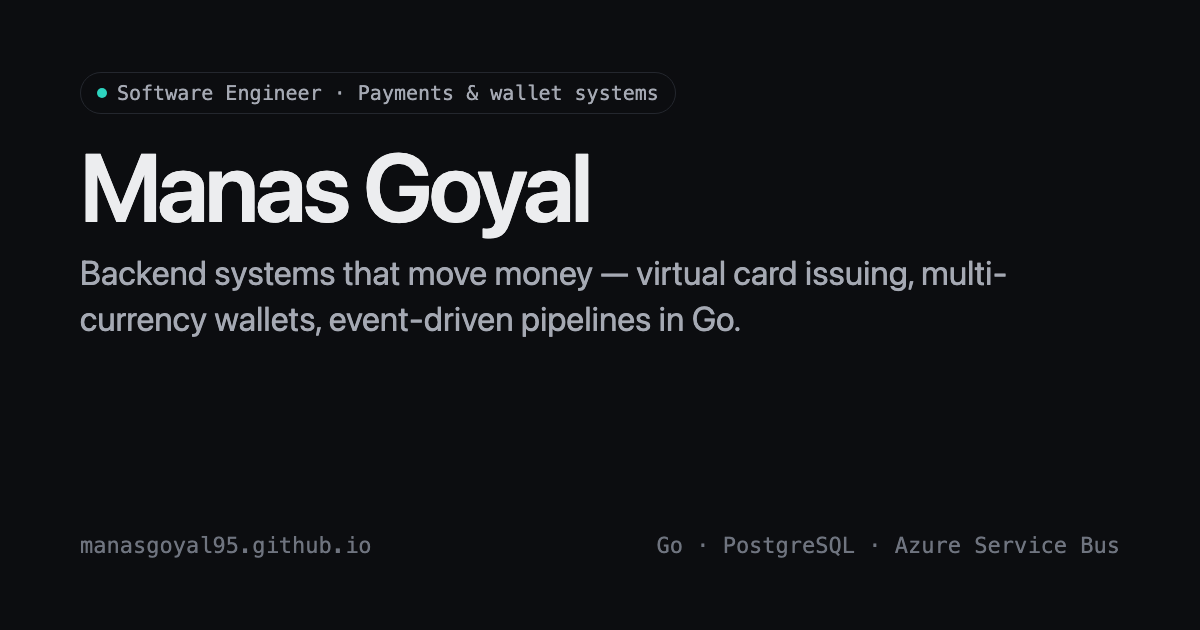
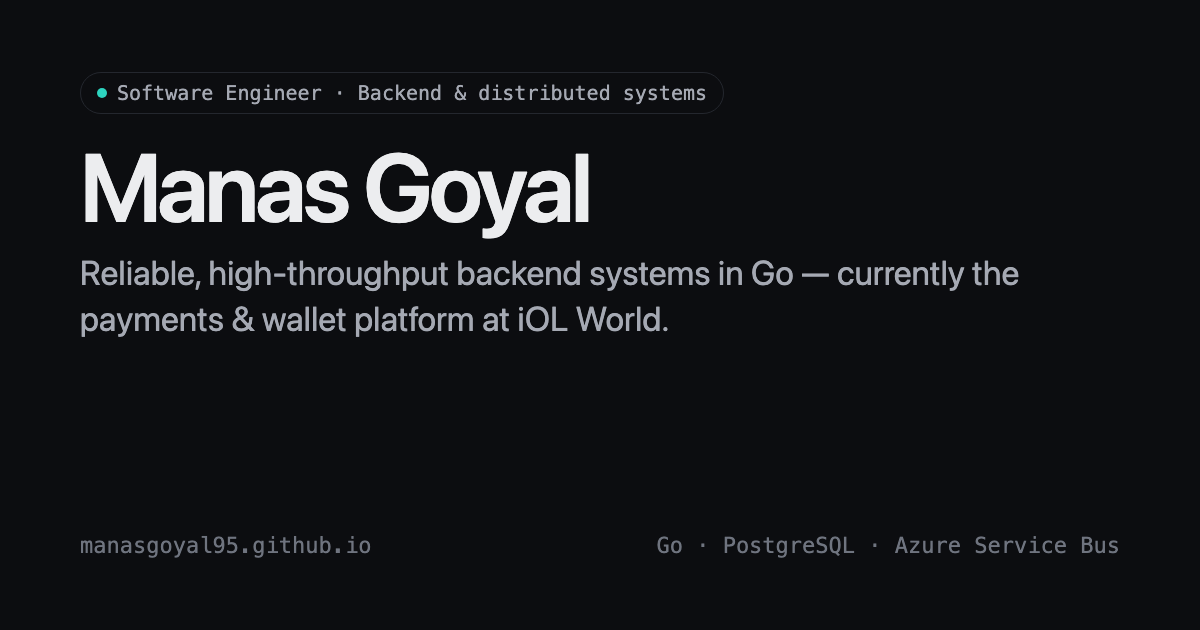
Reframe positioning: engineering-first, fintech as evidence

Changed region(s): [[0.0617, 0.3921, 0.8633, 0.5429], [0.37, 0.1206, 0.5858, 0.181], [0.3083, 0.1206, 0.3392, 0.181]]

diff --git a/src/data/profile.ts b/src/data/profile.ts
@@ -4,9 +4,9 @@ export const profile = {
   company: 'iOL World',
   location: 'India',
   tagline:
-    'I build the backend systems that move money — virtual card issuing, multi-currency wallets, and event-driven pipelines in Go.',
+    'Backend engineer building reliable, high-throughput distributed systems in Go — currently the payments and wallet platform at iOL World.',
   summary:
-    'Backend-focused engineer with 2 years building payment, wallet and financial-transaction systems in Golang and Node.js. I care about transactional consistency, idempotency and production observability — the unglamorous parts that make money movement safe at scale.',
+    'The domain so far has been fintech; the problems — consistency under concurrency, idempotent APIs, event-driven pipelines, observability — apply to any system that has to be correct at scale.',
   email: 'manasgoyal95@gmail.com',
   resumeUrl: '/Manas_Goyal_Resume.pdf',
   links: {
